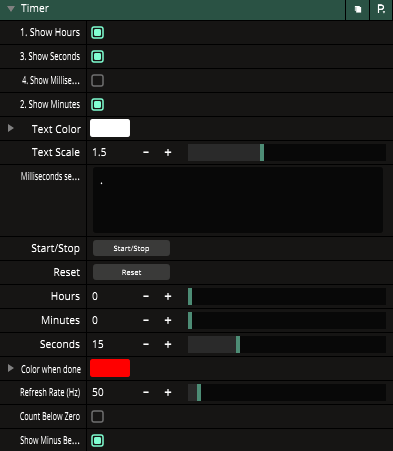
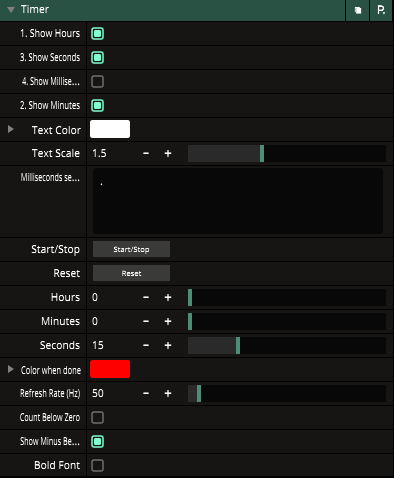
Add bold toggle to Timer

diff --git a/README.md b/README.md
@@ -50,7 +50,7 @@ Screenshots:
 ![Preview-3](https://github.com/YaNesyTortiK/WirePatches/blob/main/img/SystemTime/Preview-3.png?raw=true)
 
 ## Timer
-This patch is providing a digital timer with hours, minutes, seconds and milliseconds with ability to disable any of these individually. Also you can change text color and scale text. You also can change color for text when timer will stop on 0 seconds and change refresh rate. Timer can go below zero (minus sign can be toggled off).
+This patch is providing a digital timer with hours, minutes, seconds and milliseconds with ability to disable any of these individually. Also you can change text color and scale text. You also can change color for text when timer will stop on 0 seconds and change refresh rate. Timer can go below zero (minus sign can be toggled off). You cantoggle between bold and regular fonts.
 
 [>DOWNLOAD<](https://raw.githubusercontent.com/YaNesyTortiK/WirePatches/refs/heads/main/Timer.wired)
 